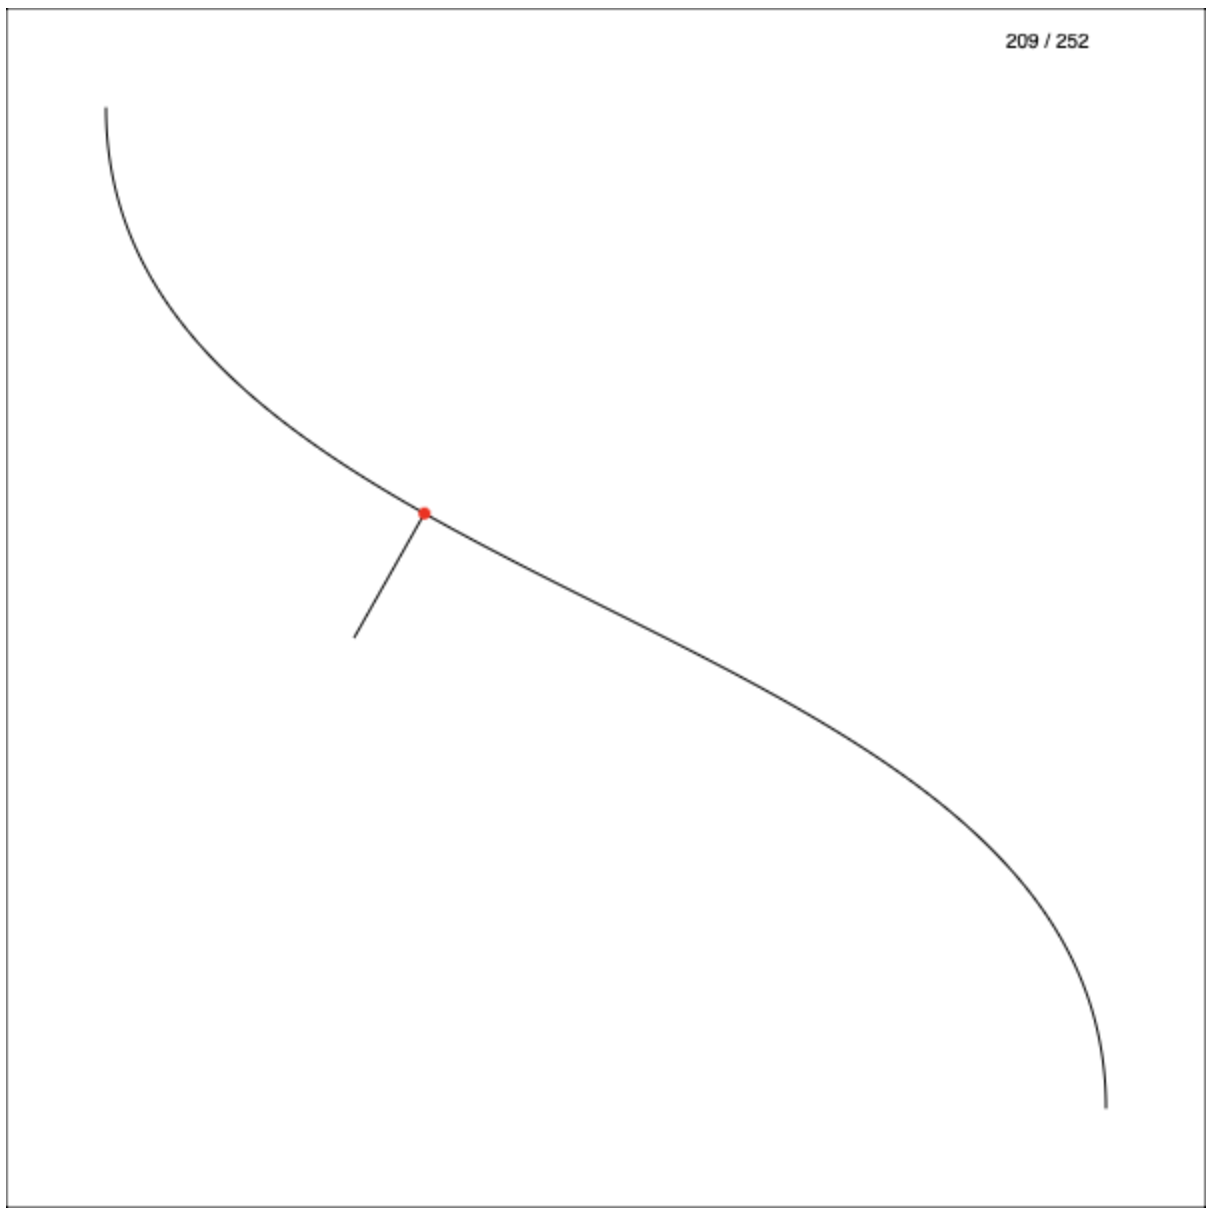
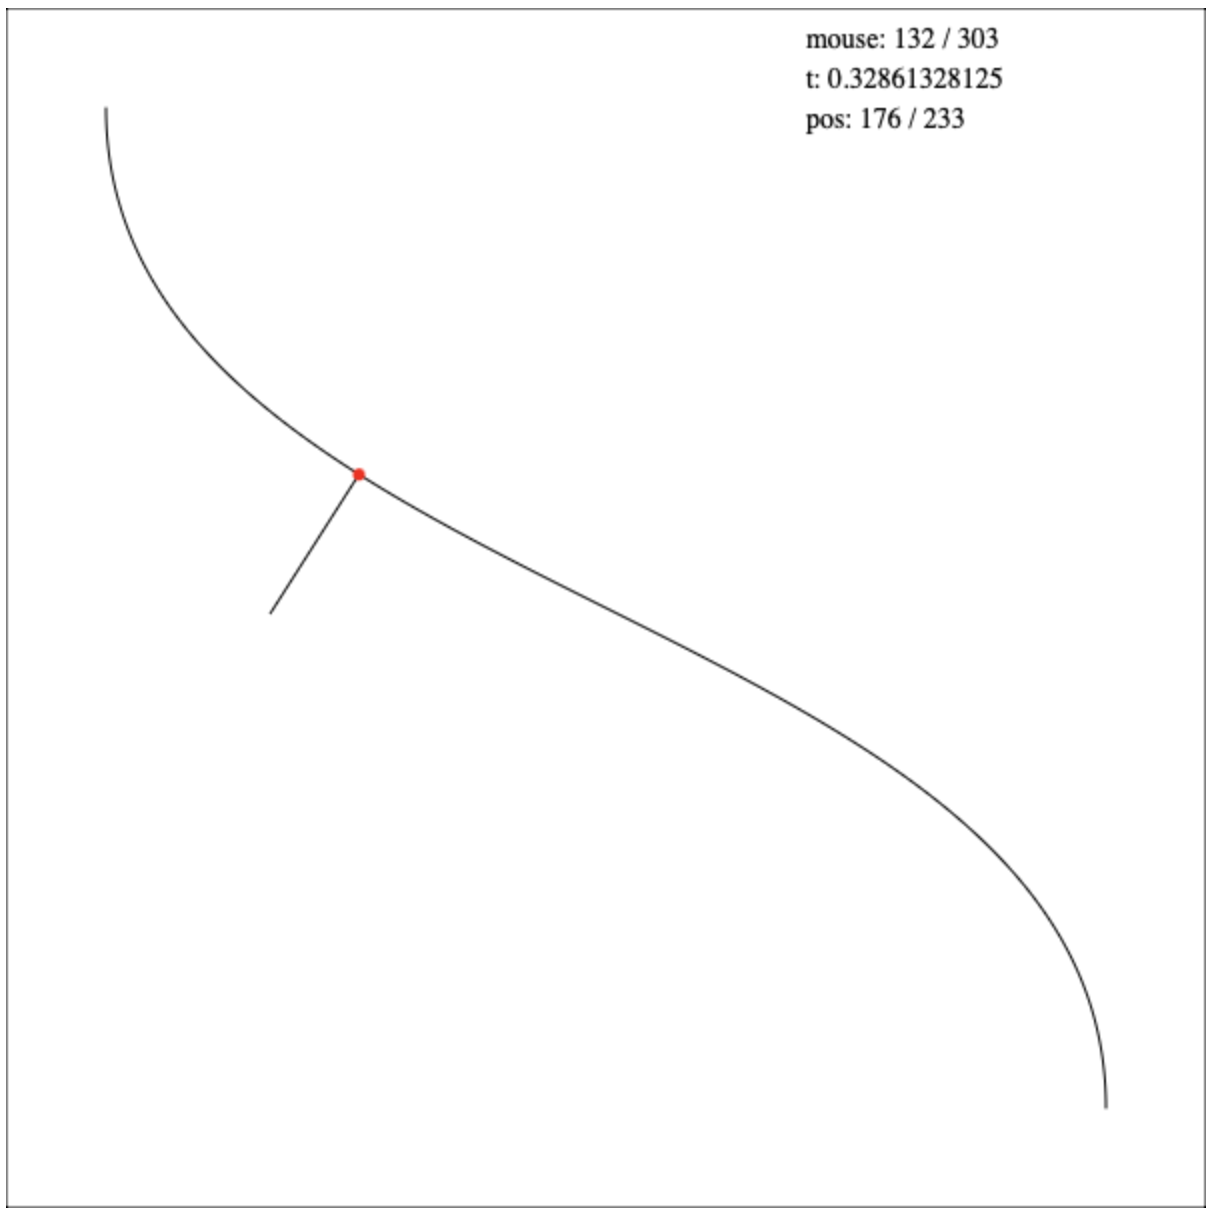
feat: :memo: Update article of bezier.

diff --git a/articles/124bcb5966c4a7.md b/articles/124bcb5966c4a7.md
@@ -77,7 +77,20 @@ $$
 
 # 探索方法
 
-ベジェ曲線を分割しながら、適当なt（とりあえず0.5）で求めたベジェ曲線上の点の接線とある点との直線が垂直か（ドット積が0か）調べ、ドット積の値から次の分割位置を決めて再帰、ベジェ曲線の長さが小さくなればそのベジェ曲線区間の$t=0.5$を探索点とする方法にしてみた。
+~~ベジェ曲線を分割しながら、適当なt（とりあえず0.5）で求めたベジェ曲線上の点の接線とある点との直線が垂直か（ドット積が0か）調べ、ドット積の値から次の分割位置を決めて再帰、ベジェ曲線の長さが小さくなればそのベジェ曲線区間の$t=0.5$を探索点とする方法にしてみた。~~
+
+これだとこんなベジェ曲線だとうまく動作しなかった。
+![](/images/124bcb5966c4a7/ng.png)
+
+別の方法として、$t=0.5$でベジェ曲線を分割して、ベジェ曲線を内包する矩形の各辺とある点との距離を求めて、分割したベジェ曲線（を内包する矩形）のどちらがある点に近いかを調べ、ベジェ曲線の長さが短くなるまで再帰する方法にしてみた。
+
+# 直線と点との距離
+
+矩形の各辺とある点との距離は[点と線分の距離を求める](https://zenn.dev/boiledorange73/articles/0037-js-distance-pt-seg)を参考に下記で求めることにした。
+
+$$
+d2(\overline{t}) = \frac{(a(y1-y0)-b(x1-x0))^2}{a^2+b^2}
+$$
 
 # ソースコード
 
@@ -151,33 +164,66 @@ const split_bezier = bz => {
   ];
 };
 ```
+## 直線と点との距離（の二乗）
+
+```js
+const diff2_to_line = (line, p) => {
+  const ps = sub(line[0], p);
+  const [a, b] = sub(line[1], line[0]);
+  const n2 = norm_squared([a, b]);
+  const tt = -(a * ps[0] + b * ps[1]);
+  if (tt < 0)
+    return norm_squared(ps);
+  else if (tt > n2)
+    return norm_squared(sub(line[1], p));
+  const f1 = a * ps[1] - b * ps[0];
+  return f1 * f1 / n2;
+};
+```
+
+## ベジェ曲線を内包する矩形と点との距離（の二乗）
+
+3次ベジェ曲線を構成する4点で作られる矩形の各辺について長さを求めそれらの最短を求めている。
+
+```js
+const diff2_to_polygon = (bz, p) => {
+  return Math.min(
+    diff2_to_line([bz[0], bz[1]], p),
+    diff2_to_line([bz[1], bz[2]], p),
+    diff2_to_line([bz[2], bz[3]], p),
+    diff2_to_line([bz[3], bz[0]], p)
+  );
+};
+```
 
 ## 探索処理
 
 `bz`はベジェ曲線、`p`はある点、`t0`と`t1`は探索区間を表すパラメータの値。
-直線近似したベジェ曲線の長さが短くなるとその区間の$t=0.5$を全体区間の`t`に変換して終了する。
 
-ベジェ曲線が長い場合は$t=0.5$の点でのドット積の符号により、分割したベジェ曲線の前半または後半で再帰する。
+分割した2つのベジェ曲線について距離が短い方について再帰しながらさらに分割し、ベジェ曲線の長さが短くなると再帰を終える。
 
 ```js
-const neighbor_bezier = (bz, p, t0, t1) => {
-  const tcenter = (t0 + t1) * 0.5;
+const done_or_recursive = (bz, p, t0, t1) => {
   const n2 = norm_squared(sub(bz[3], bz[0]));
   if (n2 < 1 * 1)
-    return tcenter;
+    return (t0 + t1) * 0.5;
+  return neighbor_bezier(bz, p, t0, t1);
+};
+
+const neighbor_bezier = (bz, p, t0, t1) => {
   const splitbz = split_bezier(bz);
-  const center = splitbz[0][3];
-  const tangential = differential(0.5, bz);
-  const perpendicular = sub(p, center)
-  return dot(tangential, perpendicular) < 0
-    ? neighbor_bezier(splitbz[0], p, t0, tcenter)
-    : neighbor_bezier(splitbz[1], p, tcenter, t1);
+  const d0 = diff2_to_polygon(splitbz[0], p);
+  const d1 = diff2_to_polygon(splitbz[1], p);
+  const tcenter = (t0 + t1) * 0.5;
+  return d0 < d1
+    ? done_or_recursive(splitbz[0], p, t0, tcenter)
+    : done_or_recursive(splitbz[1], p, tcenter, t1);
 };
 ```
 
 ## 動かしてみる
 
-こんなベジェ曲線に対して、
+こんなベジェ曲線で動かしてみた。
 
 ```js
 const bezier = [
@@ -187,33 +233,24 @@ const bezier = [
   [550, 550]
 ];
 ```
-ある点を (174, 315) として動かしてみたところ、
-
-```js
-neighbor_bezier(bezier, [174, 315], 0, 1);
-```
-`neighbor_bezier`の引数`t0`と`t1`はこんな感じで推移し、
-
-```
-0            – 1
-0            – 0.5
-0.25         – 0.5
-0.375        – 0.5
-0.375        – 0.4375
-0.375        – 0.40625
-0.375        – 0.390625
-0.375        – 0.3828125
-0.375        – 0.37890625
-0.375        – 0.376953125
-0.3759765625 – 0.376953125
-```
-
-最後の`t0`と`t1`の平均 **`0.37646484375`** が結果になった。
-
 CanvasでY軸が逆だけど図にするとこんな感じ。
 ![](/images/124bcb5966c4a7/bezier.png)
 
-## リポジトリ
+上に挙げたうまく動作しなかったベジェ曲線もOK。
+
+```js
+const bezier = [
+  [150, 550],
+  [ 50,  50],
+  [550,  50],
+  [250, 550]
+];
+```
+
+![](/images/124bcb5966c4a7/ok.png)
+
+
+# リポジトリ
 
 ソースコード一式はこちら。
 https://github.com/tunefs/neighbor_bezier
